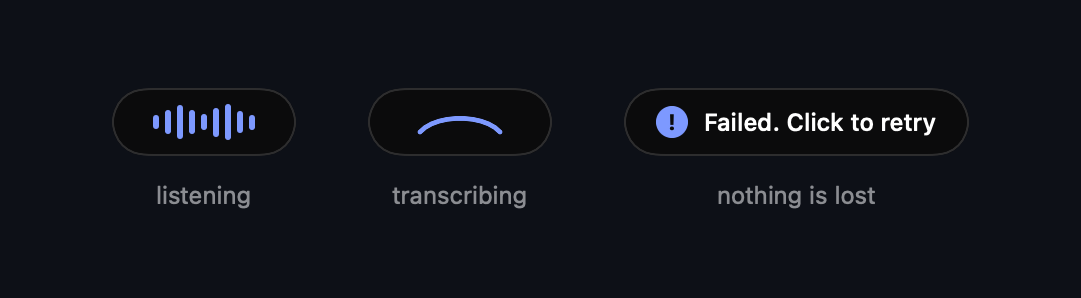
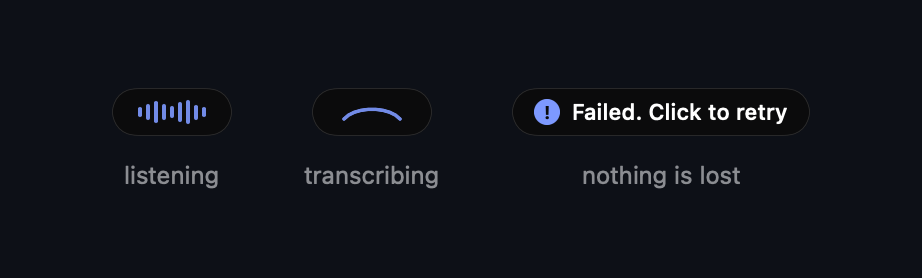
feat(ui): move settings to a sidebar layout and make the pill smaller and translucent

diff --git a/Sources/Legato/SettingsView.swift b/Sources/Legato/SettingsView.swift
@@ -7,18 +7,69 @@ struct SettingsView: View {
     @ObservedObject var controller: Controller
     @State var tab = 0
 
+    private var sections: [(title: String, icon: String)] {
+        [
+            (L.t("General", "Geral"), "gearshape"),
+            (L.t("Transcription", "Transcrição"), "waveform"),
+            (L.t("Vocabulary", "Vocabulário"), "character.book.closed"),
+            (L.t("History", "Histórico"), "clock"),
+        ]
+    }
+
     var body: some View {
-        TabView(selection: $tab) {
-            GeneralTab(controller: controller)
-                .tabItem { Label(L.t("General", "Geral"), systemImage: "gearshape") }.tag(0)
-            TranscriptionTab(controller: controller)
-                .tabItem { Label(L.t("Transcription", "Transcrição"), systemImage: "waveform") }.tag(1)
-            VocabularyTab(controller: controller)
-                .tabItem { Label(L.t("Vocabulary", "Vocabulário"), systemImage: "character.book.closed") }.tag(2)
-            HistoryTab(controller: controller)
-                .tabItem { Label(L.t("History", "Histórico"), systemImage: "clock") }.tag(3)
+        HStack(spacing: 0) {
+            sidebar
+            Divider()
+            VStack(alignment: .leading, spacing: 0) {
+                Text(sections[tab].title).font(.title2.weight(.semibold))
+                    .padding(.horizontal, 28).padding(.top, 26).padding(.bottom, 2)
+                Group {
+                    switch tab {
+                    case 0: GeneralTab(controller: controller)
+                    case 1: TranscriptionTab(controller: controller)
+                    case 2: VocabularyTab(controller: controller)
+                    default: HistoryTab(controller: controller)
+                    }
+                }
+                .frame(maxWidth: .infinity, maxHeight: .infinity)
+            }
         }
-        .frame(width: 560, height: 520)
+        .tint(Theme.cobalt)
+        .frame(width: 740, height: 540)
+        .ignoresSafeArea()
+    }
+
+    private var sidebar: some View {
+        VStack(alignment: .leading, spacing: 2) {
+            HStack(spacing: 7) {
+                SlurMark().fill(Theme.cobaltAdaptive).frame(width: 26, height: 26)
+                Text("legato").font(.system(size: 22, weight: .medium, design: .serif)).italic()
+            }
+            .padding(.leading, 8).padding(.bottom, 18)
+            .accessibilityElement(children: .ignore).accessibilityLabel("Legato")
+            ForEach(sections.indices, id: \.self) { index in
+                Button { tab = index } label: {
+                    HStack(spacing: 9) {
+                        Image(systemName: sections[index].icon).frame(width: 18)
+                            .foregroundStyle(tab == index ? Theme.cobaltAdaptive : Color.secondary)
+                        Text(sections[index].title)
+                        Spacer()
+                    }
+                    .padding(.horizontal, 9).padding(.vertical, 7)
+                    .background(RoundedRectangle(cornerRadius: 7).fill(Color.primary.opacity(tab == index ? 0.09 : 0)))
+                    .contentShape(Rectangle())
+                }
+                .buttonStyle(.plain)
+                .accessibilityAddTraits(tab == index ? .isSelected : [])
+            }
+            Spacer()
+            Text("v" + (Bundle.main.infoDictionary?["CFBundleShortVersionString"] as? String ?? "0.1.0"))
+                .font(.caption).foregroundStyle(.tertiary).padding(.leading, 9)
+        }
+        .padding(.horizontal, 12).padding(.top, 52).padding(.bottom, 16)
+        .frame(width: 190)
+        .frame(maxHeight: .infinity)
+        .background(.regularMaterial)
     }
 }
 
@@ -34,7 +85,24 @@ private struct GeneralTab: View {
 
     var body: some View {
         Form {
-            Section(L.t("Setup", "Configuração")) {
+            Section {
+                Picker(L.t("Dictation key", "Tecla de ditado"), selection: $controller.settings.trigger) {
+                    ForEach(TriggerKey.allCases) { key in Text(key.title).tag(key) }
+                }
+                Text(
+                    L.t(
+                        "Hold to talk and release to finish. Tap twice to keep recording hands-free, then tap once to finish. Esc cancels.",
+                        "Segure para falar e solte para terminar. Toque duas vezes para gravar com as mãos livres e uma vez para terminar. Esc cancela.")
+                )
+                .font(.callout).foregroundStyle(.secondary)
+            }
+            Section {
+                Toggle(L.t("Play a sound when recording starts and stops", "Tocar um som ao começar e terminar"), isOn: $controller.settings.sounds)
+                Toggle(L.t("Add a space after each dictation", "Adicionar um espaço depois de cada ditado"), isOn: $controller.settings.trailingSpace)
+                Toggle(L.t("Open Legato at login", "Abrir o Legato ao iniciar a sessão"), isOn: $loginItem)
+                    .onChange(of: loginItem) { _, value in LoginItem.set(value) }
+            }
+            Section(L.t("Permissions", "Permissões")) {
                 StepRow(
                     done: microphone == .authorized, title: L.t("Microphone", "Microfone"),
                     detail: L.t("To hear what you dictate.", "Para ouvir o que você dita."),
@@ -56,12 +124,12 @@ private struct GeneralTab: View {
                     Permissions.requestAccessibility()
                     Permissions.open(Permissions.accessibilityPane)
                 }
-                StepRow(
-                    done: controller.modelState == .ready || controller.modelState == .resting
-                        || controller.settings.engine == .api,
-                    title: L.t("Speech model", "Modelo de voz"), detail: modelDetail,
-                    button: L.t("Download", "Baixar"), busy: modelBusy
-                ) { controller.loadModel() }
+                if controller.settings.engine == .local, controller.modelState != .ready, controller.modelState != .resting {
+                    StepRow(
+                        done: false, title: L.t("Speech model", "Modelo de voz"), detail: modelDetail,
+                        button: L.t("Download", "Baixar"), busy: modelBusy
+                    ) { controller.loadModel() }
+                }
                 if controller.settings.trigger == .fn, fnAction != 0 {
                     StepRow(
                         done: false, title: L.t("The fn key", "A tecla fn"),
@@ -71,23 +139,6 @@ private struct GeneralTab: View {
                         button: L.t("Open Keyboard", "Abrir Teclado")
                     ) { Permissions.open(Permissions.keyboardPane) }
                 }
-            }
-            Section(L.t("Shortcut", "Atalho")) {
-                Picker(L.t("Dictation key", "Tecla de ditado"), selection: $controller.settings.trigger) {
-                    ForEach(TriggerKey.allCases) { key in Text(key.title).tag(key) }
-                }
-                Text(
-                    L.t(
-                        "Hold to talk and release to finish. Tap twice to keep recording hands-free, then tap once to finish. Esc cancels.",
-                        "Segure para falar e solte para terminar. Toque duas vezes para gravar com as mãos livres e uma vez para terminar. Esc cancela.")
-                )
-                .font(.callout).foregroundStyle(.secondary)
-            }
-            Section {
-                Toggle(L.t("Play a sound when recording starts and stops", "Tocar um som ao começar e terminar"), isOn: $controller.settings.sounds)
-                Toggle(L.t("Add a space after each dictation", "Adicionar um espaço depois de cada ditado"), isOn: $controller.settings.trailingSpace)
-                Toggle(L.t("Open Legato at login", "Abrir o Legato ao iniciar a sessão"), isOn: $loginItem)
-                    .onChange(of: loginItem) { _, value in LoginItem.set(value) }
             }
         }
         .formStyle(.grouped)
@@ -133,7 +184,7 @@ private struct StepRow: View {
     var body: some View {
         HStack(alignment: .center, spacing: 12) {
             Image(systemName: done ? "checkmark.circle.fill" : "circle")
-                .foregroundStyle(done ? Theme.cobalt : Color.secondary)
+                .foregroundStyle(done ? Theme.cobaltAdaptive : Color.secondary)
                 .font(.title3)
                 .accessibilityLabel(done ? L.t("Done", "Feito") : L.t("Pending", "Pendente"))
             VStack(alignment: .leading, spacing: 2) {

diff --git a/Sources/Legato/Pill.swift b/Sources/Legato/Pill.swift
@@ -33,10 +33,11 @@ struct PillView: View {
 
     var body: some View {
         content
-            .padding(.horizontal, 16)
-            .frame(minWidth: 92, minHeight: 34, maxHeight: 34)
-            .background(Capsule().fill(Theme.pill))
-            .overlay(Capsule().strokeBorder(Color.white.opacity(0.14), lineWidth: 1))
+            .padding(.horizontal, 11)
+            .frame(minWidth: 60, minHeight: 24, maxHeight: 24)
+            .background(background)
+            .overlay(Capsule().strokeBorder(Color.white.opacity(0.12), lineWidth: 0.5))
+            .environment(\.colorScheme, .dark)
             .contentShape(Capsule())
             .onTapGesture { model.onTap?() }
             .opacity(model.mode == .hidden ? 0 : 1)
@@ -45,45 +46,55 @@ struct PillView: View {
             .accessibilityElement(children: .combine)
     }
 
+    /// Dark glass that lets the desktop show through. Still frames use a flat fill, since
+    /// a blur has nothing behind it to blur in a rendered picture.
+    @ViewBuilder private var background: some View {
+        if still {
+            Capsule().fill(Theme.pill)
+        } else {
+            Glass().clipShape(Capsule()).overlay(Capsule().fill(Color.black.opacity(0.28)))
+        }
+    }
+
     @ViewBuilder private var content: some View {
         switch model.mode {
         case .hidden:
-            Color.clear.frame(width: 60)
+            Color.clear.frame(width: 38)
         case .recording(let handsFree):
-            HStack(spacing: 10) {
+            HStack(spacing: 7) {
                 bars
                 if handsFree {
-                    RoundedRectangle(cornerRadius: 2.5).fill(Theme.cobaltSoft).frame(width: 10, height: 10)
+                    RoundedRectangle(cornerRadius: 2).fill(Theme.cobaltSoft).frame(width: 7, height: 7)
                         .accessibilityLabel(L.t("Stop", "Parar"))
                 }
             }
         case .working(let detail):
-            HStack(spacing: 8) {
-                WorkingArc(still: still).frame(width: 40, height: 10)
+            HStack(spacing: 6) {
+                WorkingArc(still: still).frame(width: 28, height: 7)
                 if let detail {
-                    Text(detail).font(.system(size: 12, weight: .medium)).foregroundStyle(.white.opacity(0.75))
+                    Text(detail).font(.system(size: 11, weight: .medium)).foregroundStyle(.white.opacity(0.75))
                         .monospacedDigit()
                 }
             }
         case .failed(let message):
-            HStack(spacing: 8) {
-                Text("!").font(.system(size: 11, weight: .bold)).foregroundStyle(Theme.pill)
-                    .frame(width: 16, height: 16).background(Circle().fill(Theme.cobaltSoft))
-                Text(message).font(.system(size: 12, weight: .medium)).foregroundStyle(.white).lineLimit(1)
+            HStack(spacing: 6) {
+                Text("!").font(.system(size: 9, weight: .bold)).foregroundStyle(Theme.pill)
+                    .frame(width: 13, height: 13).background(Circle().fill(Theme.cobaltSoft))
+                Text(message).font(.system(size: 11, weight: .medium)).foregroundStyle(.white).lineLimit(1)
             }
         case .notice(let message):
-            Text(message).font(.system(size: 12, weight: .medium)).foregroundStyle(.white).lineLimit(1)
+            Text(message).font(.system(size: 11, weight: .medium)).foregroundStyle(.white).lineLimit(1)
         }
     }
 
     private var bars: some View {
-        HStack(spacing: 3) {
+        HStack(spacing: 2) {
             ForEach(0..<PillModel.barCount, id: \.self) { index in
-                Capsule().fill(Theme.cobaltSoft)
-                    .frame(width: 3, height: 4 + 14 * model.levels[index])
+                Capsule().fill(Theme.cobaltSoft.opacity(0.9))
+                    .frame(width: 2, height: 3 + 9 * model.levels[index])
             }
         }
-        .frame(height: 18)
+        .frame(height: 12)
         .animation(.linear(duration: 0.09), value: model.levels)
     }
 }
@@ -96,13 +107,25 @@ private struct WorkingArc: View {
     var body: some View {
         SlurLine()
             .trim(from: still ? 0 : max(0, phase - 1), to: still ? 1 : min(1, phase))
-            .stroke(Theme.cobaltSoft, style: StrokeStyle(lineWidth: 2.4, lineCap: .round))
-            .padding(.top, 3)
+            .stroke(Theme.cobaltSoft.opacity(0.9), style: StrokeStyle(lineWidth: 1.8, lineCap: .round))
+            .padding(.top, 2)
             .onAppear {
                 guard !still else { return }
                 withAnimation(.easeInOut(duration: 1.4).repeatForever(autoreverses: false)) { phase = 2 }
             }
     }
+}
+
+private struct Glass: NSViewRepresentable {
+    func makeNSView(context: Context) -> NSVisualEffectView {
+        let view = NSVisualEffectView()
+        view.material = .hudWindow
+        view.blendingMode = .behindWindow
+        view.state = .active
+        return view
+    }
+
+    func updateNSView(_ view: NSVisualEffectView, context: Context) {}
 }
 
 /// A borderless panel above the Dock that never takes focus from the app being typed into.
@@ -151,6 +174,6 @@ final class PillPanel {
         let screen = NSScreen.screens.first { $0.frame.contains(mouse) } ?? NSScreen.main
         guard let area = screen?.visibleFrame else { return }
         let size = panel.frame.size
-        panel.setFrameOrigin(NSPoint(x: area.midX - size.width / 2, y: area.minY + 12))
+        panel.setFrameOrigin(NSPoint(x: area.midX - size.width / 2, y: area.minY))
     }
 }

diff --git a/Sources/Legato/Theme.swift b/Sources/Legato/Theme.swift
@@ -1,3 +1,4 @@
+import AppKit
 import SwiftUI
 
 /// Cobalto: ink, paper and one flat blue, after the Blue Note record sleeves.
@@ -6,6 +7,13 @@ enum Theme {
     static let paper = Color(red: 0xF3 / 255, green: 0xF4 / 255, blue: 0xF6 / 255)
     static let cobalt = Color(red: 0x24 / 255, green: 0x47 / 255, blue: 0xE0 / 255)
     static let cobaltSoft = Color(red: 0x7D / 255, green: 0x99 / 255, blue: 0xFF / 255)
+    /// Cobalt on light backgrounds, its softer tone on dark ones, so it stays readable in both.
+    static let cobaltAdaptive = Color(
+        nsColor: NSColor(name: nil) { appearance in
+            appearance.bestMatch(from: [.darkAqua, .aqua]) == .darkAqua
+                ? NSColor(red: 0x7D / 255, green: 0x99 / 255, blue: 1, alpha: 1)
+                : NSColor(red: 0x24 / 255, green: 0x47 / 255, blue: 0xE0 / 255, alpha: 1)
+        })
     static let pill = Color(red: 0x0B / 255, green: 0x0B / 255, blue: 0x0C / 255)
 }
 

diff --git a/Sources/Legato/App.swift b/Sources/Legato/App.swift
@@ -103,7 +103,9 @@ final class AppDelegate: NSObject, NSApplicationDelegate, NSMenuDelegate {
         if settingsWindow == nil {
             let window = NSWindow(contentViewController: NSHostingController(rootView: SettingsView(controller: controller)))
             window.title = "Legato"
-            window.styleMask = [.titled, .closable, .miniaturizable]
+            window.styleMask = [.titled, .closable, .miniaturizable, .fullSizeContentView]
+            window.titlebarAppearsTransparent = true
+            window.titleVisibility = .hidden
             window.isReleasedWhenClosed = false
             window.center()
             settingsWindow = window
